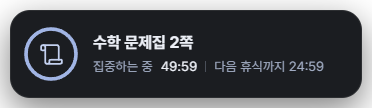
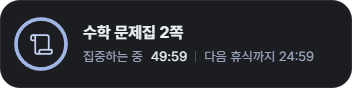
위젯 그림자를 없애고, 마우스 휠로 크기를 바꾸게 한다
그림자는 위젯 둘레의 뒤 화면을 흐리게 덮어 거슬렸다. 그림자 자리로 비워둔
바깥 여백도 함께 없애 창을 카드에 꼭 맞춘다. 보이지 않는 여백이 뒤 창의
클릭을 가로채던 일도 없어진다.

휠 한 칸에 10%씩 0.7배에서 1.6배까지. 페이지를 통째로 확대해 글자와 링이
창과 함께 커진다. 화면 가장자리 쪽 모서리를 붙박아 오른쪽 아래에 둔
위젯이 화면 밖으로 밀려나지 않게 하고, 배율은 자리와 함께 widget.json 에
적는다.

Claude-Session: https://claude.ai/code/session_01Nfi8WyaaBRBTqL6dCDZeb6

diff --git a/main.js b/main.js
@@ -152,27 +152,43 @@ function createWindow() {
 // 앱 창이 뒤로 물러나면 남은 시간을 볼 데가 없어진다. 그동안만 화면 구석에
 // 작은 창을 하나 더 띄운다. 무엇을 적을지는 렌더러가 보내주는 한 장면이
 // 정하고, 여기서는 그 창을 여닫고 자리를 잡아주는 일만 한다.
-const WIDGET = { width: 372, height: 108, margin: 24 };
+// width, height 는 배율 1 일 때 크기. 휠로 배율을 바꾸면 창과 글자가 함께 커진다.
+const WIDGET = { width: 352, height: 88, margin: 24, minScale: 0.7, maxScale: 1.6, step: 0.1 };
 
 let widget = null;
+let widgetScale = 1;
 let scene = { mode: 'idle', enabled: true };  // 렌더러가 보내온 마지막 장면
 let dragFrom = null;                          // 끌기 시작할 때의 마우스와 창 위치
 let syncTimer = null;
 
-/** 옮겨둔 자리를 읽는다. 없거나 깨졌으면 null. */
+/** 이 배율일 때 창 크기 */
+function widgetSize(scale) {
+  return { width: Math.round(WIDGET.width * scale), height: Math.round(WIDGET.height * scale) };
+}
+
+function clampScale(scale) {
+  const tidy = Math.round(scale * 10) / 10; // 0.1 씩 더하다 생기는 0.30000000000000004 를 걷어낸다
+  return Math.min(WIDGET.maxScale, Math.max(WIDGET.minScale, tidy));
+}
+
+/** 옮겨둔 자리와 배율을 읽는다. 없거나 깨졌으면 null. */
 function savedSpot() {
   try {
     const spot = JSON.parse(fs.readFileSync(spotPath, 'utf8'));
-    if (Number.isFinite(spot.x) && Number.isFinite(spot.y)) return spot;
+    if (Number.isFinite(spot.x) && Number.isFinite(spot.y)) {
+      return { x: spot.x, y: spot.y, scale: Number.isFinite(spot.scale) ? clampScale(spot.scale) : 1 };
+    }
   } catch (err) {
     if (err.code !== 'ENOENT') console.error('[widget] 자리를 읽지 못했습니다:', err.message);
   }
   return null;
 }
 
-function saveSpot(spot) {
+function saveSpot() {
+  if (!widget || widget.isDestroyed()) return;
+  const { x, y } = widget.getBounds();
   try {
-    fs.writeFileSync(spotPath, JSON.stringify(spot), 'utf8');
+    fs.writeFileSync(spotPath, JSON.stringify({ x, y, scale: widgetScale }), 'utf8');
   } catch (err) {
     console.error('[widget] 자리를 적어두지 못했습니다:', err.message);
   }
@@ -181,9 +197,10 @@ function saveSpot(spot) {
 /** 그 자리가 아직 화면 안인가. 모니터를 뽑으면 밖으로 밀려나 있을 수 있다. */
 function onScreen(spot) {
   if (!spot) return false;
+  const size = widgetSize(spot.scale);
   const middle = {
-    x: Math.round(spot.x + WIDGET.width / 2),
-    y: Math.round(spot.y + WIDGET.height / 2),
+    x: Math.round(spot.x + size.width / 2),
+    y: Math.round(spot.y + size.height / 2),
   };
   const area = screen.getDisplayNearestPoint(middle).workArea;
   return middle.x >= area.x && middle.x <= area.x + area.width
@@ -194,24 +211,27 @@ function onScreen(spot) {
 function widgetSpot() {
   const spot = savedSpot();
   if (onScreen(spot)) return spot;
+  const scale = spot ? spot.scale : 1;
+  const size = widgetSize(scale);
   const area = screen.getPrimaryDisplay().workArea;
   return {
-    x: area.x + area.width - WIDGET.width - WIDGET.margin,
-    y: area.y + area.height - WIDGET.height - WIDGET.margin,
+    x: area.x + area.width - size.width - WIDGET.margin,
+    y: area.y + area.height - size.height - WIDGET.margin,
+    scale,
   };
 }
 
 function createWidget() {
   const spot = widgetSpot();
+  widgetScale = spot.scale;
   widget = new BrowserWindow({
     x: spot.x,
     y: spot.y,
-    width: WIDGET.width,
-    height: WIDGET.height,
+    ...widgetSize(widgetScale),
     frame: false,
     transparent: true,
     backgroundColor: '#00000000',
-    hasShadow: false,     // 그림자는 카드에 직접 그린다. 창 그림자는 네모나다.
+    hasShadow: false,     // 창 그림자는 둥근 카드 둘레에 네모나게 진다
     resizable: false,
     maximizable: false,
     minimizable: false,
@@ -229,9 +249,37 @@ function createWidget() {
   });
 
   widget.removeMenu();
+  // 글자와 링은 배율 1 에 맞춰 그렸으니 페이지를 통째로 확대해 창에 맞춘다
+  widget.webContents.on('did-finish-load', () => widget.webContents.setZoomFactor(widgetScale));
   widget.loadFile(path.join(__dirname, 'src', 'widget.html'));
   widget.on('closed', () => { widget = null; });
   return widget;
+}
+
+/**
+ * 휠로 크기 바꾸기. steps 가 +1 이면 한 칸 크게, -1 이면 한 칸 작게.
+ * 화면 가장자리 쪽 모서리를 붙박아 둔다. 오른쪽 아래에 둔 위젯이 커지면서
+ * 화면 밖으로 밀려나지 않고 왼쪽 위로 자라게 하려는 것이다.
+ */
+function resizeWidget(steps) {
+  if (!widget || widget.isDestroyed() || !Number.isFinite(steps) || dragFrom) return;
+  const next = clampScale(widgetScale + steps * WIDGET.step);
+  if (next === widgetScale) return;
+
+  const before = widget.getBounds();
+  const area = screen.getDisplayMatching(before).workArea;
+  const size = widgetSize(next);
+  const hugRight = before.x + before.width / 2 > area.x + area.width / 2;
+  const hugBottom = before.y + before.height / 2 > area.y + area.height / 2;
+
+  widgetScale = next;
+  widget.setBounds({
+    x: hugRight ? before.x + before.width - size.width : before.x,
+    y: hugBottom ? before.y + before.height - size.height : before.y,
+    ...size,
+  });
+  widget.webContents.setZoomFactor(next);
+  saveSpot();
 }
 
 function closeWidget() {
@@ -284,10 +332,12 @@ function dragWidget(step) {
   if (!dragFrom) return;
   const left = Math.round(dragFrom.left + step.x - dragFrom.x);
   const top = Math.round(dragFrom.top + step.y - dragFrom.y);
-  widget.setPosition(left, top);
+  // setPosition 은 배율이 100% 가 아닌 화면에서 옮길 때마다 창이 한두 픽셀씩
+  // 자라기도 해서, 크기까지 함께 못 박는다
+  widget.setBounds({ x: left, y: top, ...widgetSize(widgetScale) });
   if (step.phase === 'end') {
     dragFrom = null;
-    saveSpot({ x: left, y: top });
+    saveSpot();
   }
 }
 
@@ -555,6 +605,7 @@ if (!app.requestSingleInstanceLock()) {
       queueWidgetSync();
     });
     ipcMain.on('widget:drag', (_e, step) => dragWidget(step));
+    ipcMain.on('widget:resize', (_e, steps) => resizeWidget(steps));
 
     ipcMain.on('timer:arm', (_e, payload) => {
       if (payload && payload.endsAt) arm(payload.endsAt, payload.title);

diff --git a/scripts/check-widget.js b/scripts/check-widget.js
@@ -84,10 +84,33 @@ app.whenReady().then(async () => {
   assert.deepEqual([after.x, after.y], [before.x + 40, before.y - 40], '끈 만큼 따라온다');
   assert.deepEqual(
     JSON.parse(fs.readFileSync(path.join(app.getPath('userData'), 'widget.json'), 'utf8')),
-    { x: after.x, y: after.y }, '옮긴 자리를 적어둔다');
+    { x: after.x, y: after.y, scale: 1 }, '옮긴 자리를 적어둔다');
 
   fs.mkdirSync(path.join(ROOT, 'shots'), { recursive: true });
   fs.writeFileSync(path.join(ROOT, 'shots/widget.png'), (await widget.webContents.capturePage()).toPNG());
+
+  // 휠을 올리면 커진다. 오른쪽 아래에 놓인 위젯이니 오른쪽 아래 모서리는 제자리다.
+  const wheelUp = () => widget.webContents.sendInputEvent(
+    { type: 'mouseWheel', x: 60, y: 40, deltaX: 0, deltaY: 120, wheelTicksY: 1, canScroll: true });
+  wheelUp();
+  await wait(400);
+  const grown = widget.getBounds();
+  assert.deepEqual([grown.width, grown.height], [387, 97], '휠을 올리면 한 칸(10%) 커진다: ' + JSON.stringify(grown));
+  assert.deepEqual([grown.x + grown.width, grown.y + grown.height],
+    [after.x + after.width, after.y + after.height], '화면 가장자리 쪽 모서리는 그대로다');
+  assert.equal(widget.webContents.getZoomFactor().toFixed(2), '1.10', '글자와 링도 함께 커진다');
+  assert.equal(JSON.parse(fs.readFileSync(path.join(app.getPath('userData'), 'widget.json'), 'utf8')).scale, 1.1,
+    '배율도 적어둔다');
+  // 카드가 창을 꼭 채운다 (확대된 뒤에도 글이 잘리거나 빈 테두리가 남지 않는다)
+  assert.equal(await readWidget(`(() => { const r = document.getElementById('card').getBoundingClientRect();
+    return Math.round(r.right) === innerWidth && Math.round(r.bottom) === innerHeight; })()`), true, '카드가 창을 채운다');
+
+  // 끝까지 줄여도 최소 배율(0.7)에서 멈춘다
+  for (let i = 0; i < 8; i++) ipcMain.emit('widget:resize', {}, -1);
+  const least = widget.getBounds();
+  assert.deepEqual([least.width, least.height], [246, 62], '0.7배에서 더 줄지 않는다: ' + JSON.stringify(least));
+  ipcMain.emit('widget:resize', {}, 3);
+  assert.equal(widget.getBounds().width, 352, '다시 키울 수 있다');
 
   // 앱으로 돌아오면 위젯은 물러난다
   win.restore();

diff --git a/src/widget.js b/src/widget.js
@@ -101,6 +101,20 @@
   el.card.addEventListener('pointerup', letGo);
   el.card.addEventListener('pointercancel', letGo);
 
+  // ── 휠로 크기 바꾸기 ─────────────────────────────────────
+  // 휠을 올리면 커지고 내리면 작아진다. 마우스 휠은 한 칸에 100 가량,
+  // 터치패드는 잘게 여러 번 오므로 모아서 한 칸만큼 찼을 때 한 번씩 넘긴다.
+  const WHEEL_NOTCH = 100;
+  let wheel = 0;
+  window.addEventListener('wheel', (e) => {
+    e.preventDefault();
+    wheel += e.deltaY;
+    const steps = Math.trunc(wheel / WHEEL_NOTCH);
+    if (!steps) return;
+    wheel -= steps * WHEEL_NOTCH;
+    bridge.resize(-steps);
+  }, { passive: false });
+
   // 키보드로도 열 수 있게 (스크린 리더와 접근성 도구를 위해)
   el.card.addEventListener('keydown', (e) => {
     if (e.key === 'Enter' || e.key === ' ') { e.preventDefault(); bridge.open(); }

diff --git a/src/widget.css b/src/widget.css
@@ -4,8 +4,8 @@
  * widget.css - 배경 위젯.
  *
  * 앱 창이 뒤로 물러났을 때 화면 구석에 남는 한 줄짜리 알림판.
- * 창 자체는 투명하고, 그 위에 이 카드 하나만 떠 있다. 바깥 여백은
- * 그림자가 잘리지 않게 비워둔 자리다.
+ * 창 자체는 투명하고, 그 위에 이 카드 하나만 창에 꼭 맞게 떠 있다.
+ * 그림자는 두지 않는다. 뒤에 깔린 화면이 흐려 보여 거슬린다.
  */
 
 :root {
@@ -28,7 +28,6 @@ html, body {
 
 body {
   display: flex;
-  padding: 10px;
   color: var(--hanji);
   font: 14px/1.5 var(--han);
   overflow: hidden;
@@ -47,7 +46,6 @@ body {
   border: 1px solid rgba(255,255,255,.08);
   border-radius: 20px;
   background: var(--jjok-deep);
-  box-shadow: 0 12px 34px rgba(0,0,0,.5);
   transition: background-color 180ms ease, border-color 180ms ease;
 }
 .card:hover { background: #212429; border-color: rgba(255,255,255,.14); }

diff --git a/src/widget.html b/src/widget.html
@@ -10,8 +10,8 @@
 <body>
 
 <!-- 앱이 뒤에 물러나 있을 때 남은 시간만 보여주는 작은 창.
-     끌어서 옮기고, 그냥 누르면 앱 창이 앞으로 나온다. -->
-<div class="card" id="card" role="button" tabindex="0" title="눌러서 Quest Timer 열기">
+     끌어서 옮기고, 휠로 크기를 바꾸고, 그냥 누르면 앱 창이 앞으로 나온다. -->
+<div class="card" id="card" role="button" tabindex="0" title="눌러서 Quest Timer 열기 · 휠로 크기 조절">
   <div class="mark" id="mark">
     <svg class="mark-ring" viewBox="0 0 56 56" aria-hidden="true">
       <circle class="mark-track" cx="28" cy="28" r="25"/>

diff --git a/widget-preload.js b/widget-preload.js
@@ -18,4 +18,7 @@ contextBridge.exposeInMainWorld('widget', {
 
   /** 끌어서 옮기기. phase 는 start | move | end, 좌표는 화면 기준. */
   drag: (phase, x, y) => ipcRenderer.send('widget:drag', { phase, x, y }),
+
+  /** 크기 바꾸기. +1 이면 한 칸 크게, -1 이면 한 칸 작게. */
+  resize: (steps) => ipcRenderer.send('widget:resize', steps),
 });

diff --git a/README.md b/README.md
@@ -72,7 +72,8 @@ Windows에서 쓰는 프로그램이고, 기록은 사용하는 컴퓨터에만 
 작은 위젯이 뜹니다. 퀘스트 이름과 남은 시간이 보이고, 휴식을 포함해 돌리실 때는
 다음 휴식까지 남은 시간도 함께 나옵니다.
 
-위젯은 끌어서 원하는 자리로 옮기실 수 있고, 옮긴 자리는 다음에도 기억합니다.
+위젯은 끌어서 원하는 자리로 옮기실 수 있고, 위젯 위에서 마우스 휠을 굴리면 크기가
+바뀝니다. 옮긴 자리와 크기는 다음에도 기억합니다.
 그냥 누르시면 앱 창이 앞으로 나오고 위젯은 사라집니다. 필요 없으시면 설정에서
 끄실 수 있습니다.
 

diff --git a/build/release-1.4.2.md b/build/release-1.4.2.md
@@ -1,0 +1,9 @@
+## 바뀐 것
+
+- **위젯 크기를 마우스 휠로 바꿀 수 있습니다.** 위젯 위에서 휠을 올리면 커지고 내리면 작아집니다. 화면 가장자리에 붙은 쪽은 그 자리에 둔 채 크기만 바뀌고, 바꾼 크기는 다음에도 기억합니다.
+- **위젯 뒤에 깔리던 그림자를 없앴습니다.** 위젯 둘레의 뒤 화면이 흐려 보이지 않고, 위젯 바로 옆을 눌러도 뒤에 있는 창이 제대로 눌립니다.
+
+## 받는 곳
+
+- 설치해서 쓰시려면 `Quest-Timer-Setup-1.4.2.exe`
+- 설치 없이 쓰시려면 `Quest-Timer-1.4.2-portable.exe`
